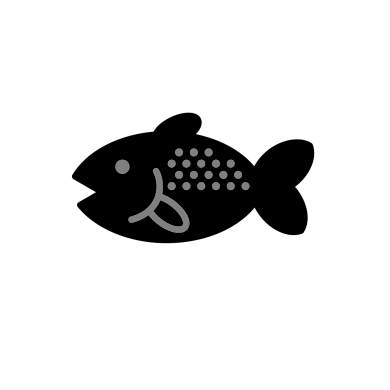
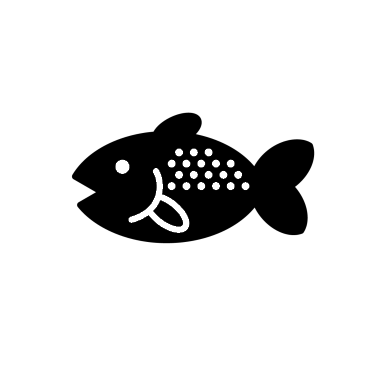
魚に色をつけた。

Changed region(s): [[0.3077, 0.3692, 0.6462, 0.6154], [0.2769, 0.4, 0.3385, 0.4615]]

diff --git a/Assets/Scrpits/Target/ColorType.cs b/Assets/Scrpits/Target/ColorType.cs
@@ -1,0 +1,44 @@
+using UnityEngine;
+
+namespace Target
+{
+    public enum ColorType
+    {
+        Blue,
+        Yellow,
+        Red,
+        Green,
+        Orange,
+        Indigo,
+        Violet,
+        White,
+        Gray,
+        Black,
+    }
+
+    public static partial class EnumExtend
+    {
+        static Color ColorOrange = new Color(1f, 0.5f, 0f);
+        static Color ColorIndigo = new Color(0.3f, 0f, 0.55f);
+        static Color ColorViolet = new Color(0.58f, 0f, 0.83f);
+
+        public static Color GetColor(this ColorType type)
+        {
+            switch (type)
+            {
+                case ColorType.Blue: return Color.blue;
+                case ColorType.Yellow: return Color.yellow;
+                case ColorType.Red: return Color.red;
+                case ColorType.Green: return Color.green;
+                case ColorType.Orange: return ColorOrange;
+                case ColorType.Indigo: return ColorIndigo;
+                case ColorType.Violet: return ColorViolet;
+                case ColorType.White: return Color.white;
+                case ColorType.Gray: return Color.gray;
+                case ColorType.Black: return Color.black;
+            }
+            Debug.Assert(false, "Should not reach here");
+            return Color.magenta;
+        }
+    }
+}

diff --git a/Assets/Scrpits/Target/FishGenerator.cs b/Assets/Scrpits/Target/FishGenerator.cs
@@ -19,15 +19,18 @@ namespace Target
                 GameObject fish = Instantiate(_prefabFish,
                     new Vector3(URandom.Range(screenBounds._left, screenBounds._right), URandom.Range(screenBounds._bottom, screenBounds._top), 0f),
                     Quaternion.identity);
+
                 var fishType = (FishType)URandom.Range(0, Enum.GetValues(typeof(FishType)).Length);
+                var colorType = (ColorType)URandom.Range(0, Enum.GetValues(typeof(ColorType)).Length);
+                var sizeType = (SizeType)URandom.Range(0, Enum.GetValues(typeof(SizeType)).Length);
+
                 string fishName = fishType.ToString();
-                fish.GetComponentInChildren<SpriteRenderer>().sprite = Resources.Load<Sprite>(fishName);
+                SpriteRenderer spriteRenderer = fish.GetComponentInChildren<SpriteRenderer>();
+                spriteRenderer.sprite = Resources.Load<Sprite>(fishName);
+                spriteRenderer.material.SetColor("_ComplementColor0", colorType.GetColor());
+
                 fish.GetComponent<FishProperty>()._fishType = fishType;
             }
-        }
-
-        void Update()
-        {
         }
     }
 

diff --git a/Assets/Scrpits/Target/FishProperty.cs b/Assets/Scrpits/Target/FishProperty.cs
@@ -8,8 +8,8 @@ namespace Target
     public class FishProperty : MonoBehaviour
     {
         public FishType _fishType;
-        // public ColorType _colorType;
-        // public SizeType _SIzeType;
+        public ColorType _colorType;
+        public SizeType _SIzeType;
     }
 
 }

diff --git a/Assets/Scrpits/Target/SizeType.cs b/Assets/Scrpits/Target/SizeType.cs
@@ -1,0 +1,9 @@
+namespace Target
+{
+    public enum SizeType
+    {
+        Small,
+        Medium,
+        Large,
+    }
+}
